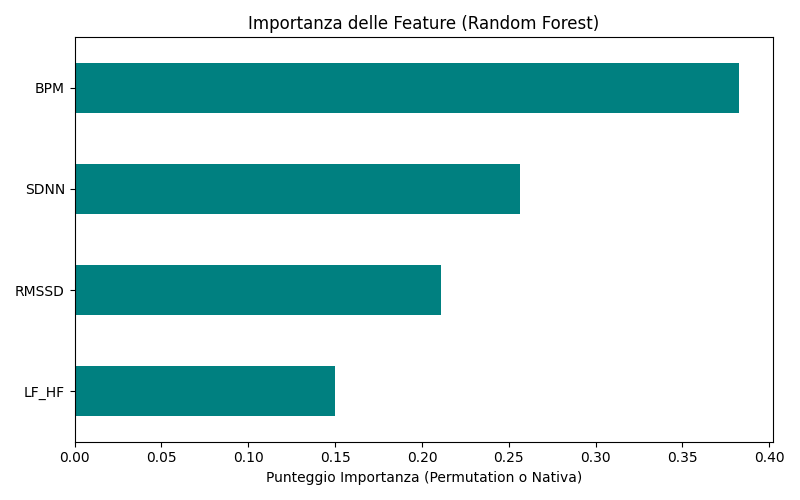
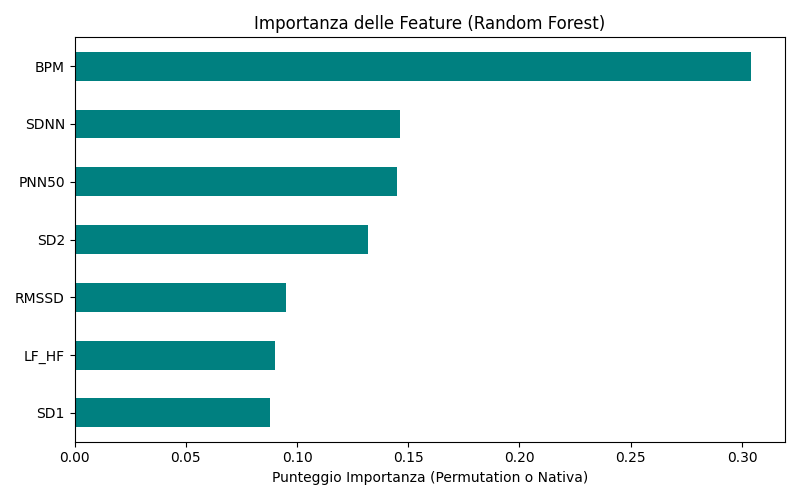
new features

diff --git a/models/dataset_machine_learning.py b/models/dataset_machine_learning.py
@@ -9,7 +9,7 @@ from sklearn.metrics import classification_report, confusion_matrix, accuracy_sc
 from sklearn.preprocessing import LabelEncoder, StandardScaler
 from sklearn.pipeline import Pipeline
 from sklearn.inspection import permutation_importance 
-from imblearn.over_sampling import SMOTE 
+from sklearn.utils.class_weight import compute_class_weight  # <--- NUOVO
 
 # Modelli
 from sklearn.ensemble import RandomForestClassifier
@@ -23,216 +23,234 @@ import optuna
 
 # VARIABILI GLOBALI 
 SEED = 356
-FILE_PATH = 'data/wesad_complete_ratio.csv'
-FEATURES = ['BPM', 'RMSSD', 'SDNN', 'LF_HF']
+FILE_PATH = 'data/features_extraction.csv'
+FEATURES = ['BPM', 'RMSSD', 'SDNN', 'PNN50', 'SD1', 'SD2', 'LF_HF']
 
 # ==========================================
 # PARTE 1: FUNZIONI COMUNI
 # ==========================================
 
 def load_and_prepare_data(file_path):
-    df = pd.read_csv(file_path)
-    df = df.dropna()
-
+    df = pd.read_csv(file_path).dropna()
     X = df[FEATURES]
     y = df['Label']
 
+    # Split con stratificazione (mantiene le proporzioni originali delle classi)
     X_train, X_test, y_train, y_test = train_test_split(
-        X, y, test_size=0.2, random_state=SEED, shuffle=False
+        X, y, test_size=0.2, random_state=SEED, stratify=y 
     )
 
-    smote = SMOTE(random_state=SEED)
-    X_train_resampled, y_train_resampled = smote.fit_resample(X_train, y_train)
+    # CALCOLO PESI CLASSI (Richiesta Prof)
+    classes = np.unique(y_train)
+    weights = compute_class_weight(class_weight='balanced', classes=classes, y=y_train)
+    weights_dict = dict(zip(classes, weights))
 
-    print(f"Distribuzione Originale Training:\n{y_train.value_counts()}")
-    print(f"Distribuzione Dopo Oversampling:\n{y_train_resampled.value_counts()}")
+    print(f"Pesi calcolati per bilanciamento:\n{weights_dict}")
+    return X_train, X_test, y_train, y_test, weights_dict
 
-    return X_train_resampled, X_test, y_train_resampled, y_test
+def plot_importance(clf, X_test, y_test, model_name):
+    plt.figure(figsize=(9, 6))
+    
+    # 1. Identifichiamo il modello (se è dentro una Pipeline come SVM)
+    actual_model = clf.named_steps['svc'] if isinstance(clf, Pipeline) else clf
+    
+    importances = None
+    names = FEATURES
+
+    # 2. Estrazione IMPORTANZA NATIVA
+    if hasattr(actual_model, 'feature_importances_'):
+        # Caso: Random Forest, XGBoost, LightGBM
+        importances = actual_model.feature_importances_
+        
+    elif model_name == "EBM":
+        # Caso: EBM (Prendiamo i punteggi globali nativi)
+        exp = actual_model.explain_global()
+        data = exp.data()
+        importances = np.array(data['scores'])
+        names = data['names']
+        
+    else:
+        # Caso: SVM (Unica eccezione: non esiste nativa, usiamo la media della permutation)
+        # La visualizziamo comunque come BARRE SEMPLICI per coerenza
+        result = permutation_importance(clf, X_test, y_test, n_repeats=5, random_state=SEED)
+        importances = result.importances_mean
+
+    # 3. Ordinamento e Grafico
+    indices = np.argsort(importances)
+    
+    plt.barh(range(len(importances)), importances[indices], color='steelblue', edgecolor='black')
+    plt.yticks(range(len(importances)), [names[i] for i in indices])
+    
+    plt.title(f'Feature Importance: {model_name}')
+    plt.xlabel('Punteggio Importanza')
+    plt.grid(axis='x', linestyle='--', alpha=0.6)
+    plt.tight_layout()
+    plt.show()
 
 def evaluate_model(clf, X_test, y_test, model_name="Modello", label_encoder=None):
     y_pred = clf.predict(X_test)
     
-    # Gestione nomi classi
+    # Decodifica le label se necessario (per XGBoost/LightGBM)
     if label_encoder is not None:
         y_pred_labels = label_encoder.inverse_transform(y_pred)
-        # Se y_test è già testo, lo usiamo così com'è
         y_test_labels = y_test if isinstance(y_test.iloc[0], str) else label_encoder.inverse_transform(y_test)
         classes = label_encoder.classes_
     else:
         y_pred_labels = y_pred
         y_test_labels = y_test
-        if isinstance(clf, Pipeline):
-            classes = clf.classes_
-        else:
-            classes = clf.classes_ if hasattr(clf, 'classes_') else np.unique(y_test)
+        classes = clf.classes_ if hasattr(clf, 'classes_') else np.unique(y_test)
     
+    # 1. Stampa Metriche Testuali
     acc = accuracy_score(y_test_labels, y_pred_labels)
-    report = classification_report(y_test_labels, y_pred_labels)
-    
-    print(f"\n{'='*40}")
-    print(f"--- PERFORMANCE DEL MODELLO: {model_name} ---")
-    print(f"Accuracy Totale: {acc:.4f}")
-    print("\nReport di Classificazione:")
-    print(report)
+    print(f"\n--- PERFORMANCE: {model_name} (Acc: {acc:.4f}) ---")
+    print(classification_report(y_test_labels, y_pred_labels))
 
-    # 1. Matrice di Confusione
-    plt.figure(figsize=(8, 6))
-    cm = confusion_matrix(y_test_labels, y_pred_labels, labels=classes)
+    # 2. Matrice di Confusione
+    plt.figure(figsize=(6, 4))
+    cm = confusion_matrix(y_test_labels, y_pred_labels)
     sns.heatmap(cm, annot=True, fmt='d', cmap='Blues', xticklabels=classes, yticklabels=classes)
-    plt.title(f'Matrice di Confusione: {model_name}', fontsize=14)
-    plt.ylabel('Verità (Actual)')
-    plt.xlabel('Predizione (Predicted)')
-    plt.tight_layout()
-    plt.savefig(f'matrice_confusione_{model_name.replace(" ", "_")}.png')
-    plt.close()
-    
-    # 2. Logica Avanzata per l'Importanza delle Feature
-    importances = None
-    
-    # Caso A: Modelli con importanza nativa (RF, XGB, LGBM)
-    if hasattr(clf, 'feature_importances_'):
-        importances = clf.feature_importances_
-    
-    # Caso B: Modello EBM
-    elif isinstance(clf, ExplainableBoostingClassifier):
-        ebm_global = clf.explain_global()
-        ebm_data = ebm_global.data()
-        importances = ebm_data['scores']
+    plt.title(f'Matrice di Confusione: {model_name}')
+    plt.xlabel('Predetto')
+    plt.ylabel('Vero')
+    plt.show()
 
-    # Caso C (IL RISOLUTORE): Se il modello non ha importanza nativa (come SVM RBF)
-    # Calcoliamo la Permutation Importance
-    if importances is None:
-        print(f"Calcolo Permutation Importance per {model_name} (richiede tempo)...")
-        # Usiamo y_test originale se il modello si aspetta etichette numeriche (XGB/LGBM)
-        # o y_test_labels se il modello accetta testo (SVM/RF)
-        target_eval = y_test if label_encoder is not None and not isinstance(y_test.iloc[0], str) else y_test_labels
-        
-        r = permutation_importance(clf, X_test, target_eval, n_repeats=10, random_state=SEED, n_jobs=-1)
-        importances = r.importances_mean
-
-    # 3. Generazione Grafico
-    plt.figure(figsize=(8, 5))
-    feat_importances = pd.Series(importances, index=FEATURES)
-    feat_importances.sort_values(ascending=True).plot(kind='barh', color='teal')
-    plt.title(f'Importanza delle Feature ({model_name})')
-    plt.xlabel('Punteggio Importanza (Permutation o Nativa)')
-    plt.tight_layout()
-    plt.savefig(f'importanza_feature_{model_name.replace(" ", "_")}.png')
-    plt.close()
+    # 3. Importanza Features (Gestione universale per tutti i 5 modelli)
+    plot_importance(clf, X_test, y_test, model_name)
 
 # ==========================================
-# PARTE 2: TRAINING SPECIFICO DEI MODELLI
+# PARTE 2: TRAINING DEI MODELLI
 # ==========================================
 
-def train_random_forest(X_train, y_train):
-    clf = RandomForestClassifier(n_estimators=100, random_state=SEED, class_weight='balanced')
+# 1. RANDOM FOREST
+def train_random_forest(X_train, y_train, weights_dict):
+    clf = RandomForestClassifier(n_estimators=100, random_state=SEED, class_weight=weights_dict)
     clf.fit(X_train, y_train)
     return clf
 
-def train_xgboost(X_train, y_train):
+# 2. XGBOOST (Richiede sample_weight nel fit)
+def train_xgboost(X_train, y_train, weights_dict):
     le = LabelEncoder()
     y_train_encoded = le.fit_transform(y_train)
+    sample_weights = np.array([weights_dict[cls] for cls in y_train])
     
     def objective(trial):
         param = {
             'max_depth': trial.suggest_int('max_depth', 3, 9),
             'learning_rate': trial.suggest_float('learning_rate', 0.01, 0.3, log=True),
-            'n_estimators': trial.suggest_int('n_estimators', 50, 300),
-            'subsample': trial.suggest_float('subsample', 0.5, 1.0),
-            'colsample_bytree': trial.suggest_float('colsample_bytree', 0.5, 1.0),
-            'eval_metric': 'mlogloss',
-            'random_state': SEED,
-            'n_jobs': -1
+            'n_estimators': trial.suggest_int('n_estimators', 50, 200),
+            'random_state': SEED, 'n_jobs': -1
         }
         clf = XGBClassifier(**param)
         cv = StratifiedKFold(n_splits=5, shuffle=True, random_state=SEED)
-        return cross_val_score(clf, X_train, y_train_encoded, cv=cv, scoring='f1_macro').mean()
+        return cross_val_score(clf, X_train, y_train_encoded, cv=cv, scoring='f1_macro', 
+                               params={'sample_weight': sample_weights}).mean()
 
-    optuna.logging.set_verbosity(optuna.logging.WARNING)
     study = optuna.create_study(direction='maximize')
-    study.optimize(objective, n_trials=100) 
-    
-    best_clf = XGBClassifier(**study.best_params, eval_metric='mlogloss', random_state=SEED, n_jobs=-1)
-    best_clf.fit(X_train, y_train_encoded)
+    study.optimize(objective, n_trials=50)
+    best_clf = XGBClassifier(**study.best_params, random_state=SEED)
+    best_clf.fit(X_train, y_train_encoded, sample_weight=sample_weights)
     return best_clf, le
 
-def train_lightgbm(X_train, y_train):
+# 3. LIGHTGBM (Richiede sample_weight)
+def train_lightgbm(X_train, y_train, weights_dict):
     le = LabelEncoder()
     y_train_encoded = le.fit_transform(y_train)
+    sample_weights = np.array([weights_dict[cls] for cls in y_train])
     
     def objective(trial):
         param = {
-            'num_leaves': trial.suggest_int('num_leaves', 20, 150),
-            'max_depth': trial.suggest_int('max_depth', 3, 12),
+            'num_leaves': trial.suggest_int('num_leaves', 20, 100),
             'learning_rate': trial.suggest_float('learning_rate', 0.01, 0.3, log=True),
-            'n_estimators': trial.suggest_int('n_estimators', 50, 300),
-            'class_weight': 'balanced',
-            'random_state': SEED,
-            'n_jobs': -1,
-            'verbose': -1
+            'n_estimators': trial.suggest_int('n_estimators', 50, 200),
+            'random_state': SEED, 'n_jobs': -1, 'verbose': -1
         }
         clf = LGBMClassifier(**param)
         cv = StratifiedKFold(n_splits=5, shuffle=True, random_state=SEED)
-        return cross_val_score(clf, X_train, y_train_encoded, cv=cv, scoring='f1_macro').mean()
+        return cross_val_score(clf, X_train, y_train_encoded, cv=cv, scoring='f1_macro', 
+                               params={'sample_weight': sample_weights}).mean()
 
-    optuna.logging.set_verbosity(optuna.logging.WARNING)
     study = optuna.create_study(direction='maximize')
-    study.optimize(objective, n_trials=100)
-    
-    best_clf = LGBMClassifier(**study.best_params, class_weight='balanced', random_state=SEED, n_jobs=-1, verbose=-1)
-    best_clf.fit(X_train, y_train_encoded)
+    study.optimize(objective, n_trials=50)
+    best_clf = LGBMClassifier(**study.best_params, random_state=SEED)
+    best_clf.fit(X_train, y_train_encoded, sample_weight=sample_weights)
     return best_clf, le
 
-def train_svm(X_train, y_train):
-    def objective(trial):
-        svm_c = trial.suggest_float('C', 0.1, 10.0, log=True)
-        svm_kernel = trial.suggest_categorical('kernel', ['linear', 'rbf'])
-        
-        clf = Pipeline([
-            ('scaler', StandardScaler()),
-            ('svc', SVC(C=svm_c, kernel=svm_kernel, class_weight='balanced', random_state=SEED))
-        ])
-        cv = StratifiedKFold(n_splits=5, shuffle=True, random_state=SEED)
-        return cross_val_score(clf, X_train, y_train, cv=cv, scoring='f1_macro', n_jobs=-1).mean()
-
-    optuna.logging.set_verbosity(optuna.logging.WARNING)
-    study = optuna.create_study(direction='maximize')
-    study.optimize(objective, n_trials=100)
-    
-    best_clf = Pipeline([
+# 4. SVM (Versione VELOCE senza Optuna)
+def train_svm(X_train, y_train, weights_dict):
+    print("Addestramento SVM rapido...")
+    clf = Pipeline([
         ('scaler', StandardScaler()),
-        ('svc', SVC(**study.best_params, class_weight='balanced', random_state=SEED))
+        ('svc', SVC(C=1.0, kernel='rbf', class_weight=weights_dict, random_state=SEED))
     ])
-    best_clf.fit(X_train, y_train)
-    return best_clf
-
-def train_ebm(X_train, y_train):
-    clf = ExplainableBoostingClassifier(interactions=10, random_state=SEED, n_jobs=-1)
     clf.fit(X_train, y_train)
     return clf
 
+# 5. EBM (Versione VELOCE senza Optuna)
+def train_ebm(X_train, y_train):
+    print("Addestramento EBM rapido...")
+    # Usiamo interactions=0 per evitare i messaggi di warning multiclasse
+    clf = ExplainableBoostingClassifier(interactions=0, random_state=SEED)
+    clf.fit(X_train, y_train) 
+    return clf
 # ==========================================
-# PARTE 3: MOTORE DI ESECUZIONE
+# PARTE 3: ESECUZIONE
 # ==========================================
+
 if __name__ == "__main__":
-    X_train, X_test, y_train, y_test = load_and_prepare_data(FILE_PATH)
+    X_train, X_test, y_train, y_test, weights_vector = load_and_prepare_data(FILE_PATH)
     
-    # 1. RANDOM FOREST
-    modello_rf = train_random_forest(X_train, y_train)
-    evaluate_model(modello_rf, X_test, y_test, model_name="Random Forest")
+    # Esecuzione modelli
+    rf = train_random_forest(X_train, y_train, weights_vector)
+    evaluate_model(rf, X_test, y_test, "Random Forest")
     
-    # 2. XGBOOST
-    modello_xgb, le_xgb = train_xgboost(X_train, y_train)
-    evaluate_model(modello_xgb, X_test, y_test, model_name="XGBoost", label_encoder=le_xgb)
+    xgb, le_xgb = train_xgboost(X_train, y_train, weights_vector)
+    evaluate_model(xgb, X_test, y_test, "XGBoost", le_xgb)
     
-    # 3. LIGHTGBM
-    modello_lgb, le_lgb = train_lightgbm(X_train, y_train)
-    evaluate_model(modello_lgb, X_test, y_test, model_name="LightGBM", label_encoder=le_lgb)
+    lgb, le_lgb = train_lightgbm(X_train, y_train, weights_vector)
+    evaluate_model(lgb, X_test, y_test, "LightGBM", le_lgb)
+    
+    svm = train_svm(X_train, y_train, weights_vector)
+    evaluate_model(svm, X_test, y_test, "SVM")
+    
+    ebm = train_ebm(X_train, y_train)
+    evaluate_model(ebm, X_test, y_test, "EBM")
 
-    # 4. SVM (Ora genererà il grafico!)
-    modello_svm = train_svm(X_train, y_train)
-    evaluate_model(modello_svm, X_test, y_test, model_name="SVM")
+# ==========================================
+# CONFRONTO FINALE (Aggiunto alla fine)
+# ==========================================
+print("\n" + "="*50)
+print("SINTESI FINALE DELLE PERFORMANCE")
+print("="*50)
 
-    # 5. EBM 
-    modello_ebm = train_ebm(X_train, y_train)
-    evaluate_model(modello_ebm, X_test, y_test, model_name="EBM")
+# Recupero i risultati dalle variabili create nel main
+final_scores = {
+    "Random Forest": accuracy_score(y_test, rf.predict(X_test)),
+    "XGBoost": accuracy_score(y_test, le_xgb.inverse_transform(xgb.predict(X_test))),
+    "LightGBM": accuracy_score(y_test, le_lgb.inverse_transform(lgb.predict(X_test))),
+    "SVM": accuracy_score(y_test, svm.predict(X_test)),
+    "EBM": accuracy_score(y_test, ebm.predict(X_test))
+}
+
+# Ordino i modelli dal migliore al peggiore
+sorted_models = dict(sorted(final_scores.items(), key=lambda item: item[1], reverse=True))
+
+# Creazione del grafico di confronto
+plt.figure(figsize=(10, 6))
+bars = plt.bar(sorted_models.keys(), sorted_models.values(), color=plt.cm.Paired(np.arange(len(sorted_models))))
+
+# Aggiungo le percentuali sopra ogni barra
+for bar in bars:
+    yval = bar.get_height()
+    plt.text(bar.get_x() + bar.get_width()/2, yval + 0.01, f'{yval:.2%}', ha='center', fontweight='bold')
+
+plt.title('Confronto Accuratezza Finale', fontsize=14)
+plt.ylabel('Accuracy Score')
+plt.ylim(0, 1.1)
+plt.grid(axis='y', alpha=0.3)
+plt.show()
+
+# Verdetto finale stampato
+vincitore = list(sorted_models.keys())[0]
+print(f"MODELLO VINCITORE: {vincitore}")
+print(f"Accuratezza raggiunta: {sorted_models[vincitore]:.4f}")
+print("="*50)
